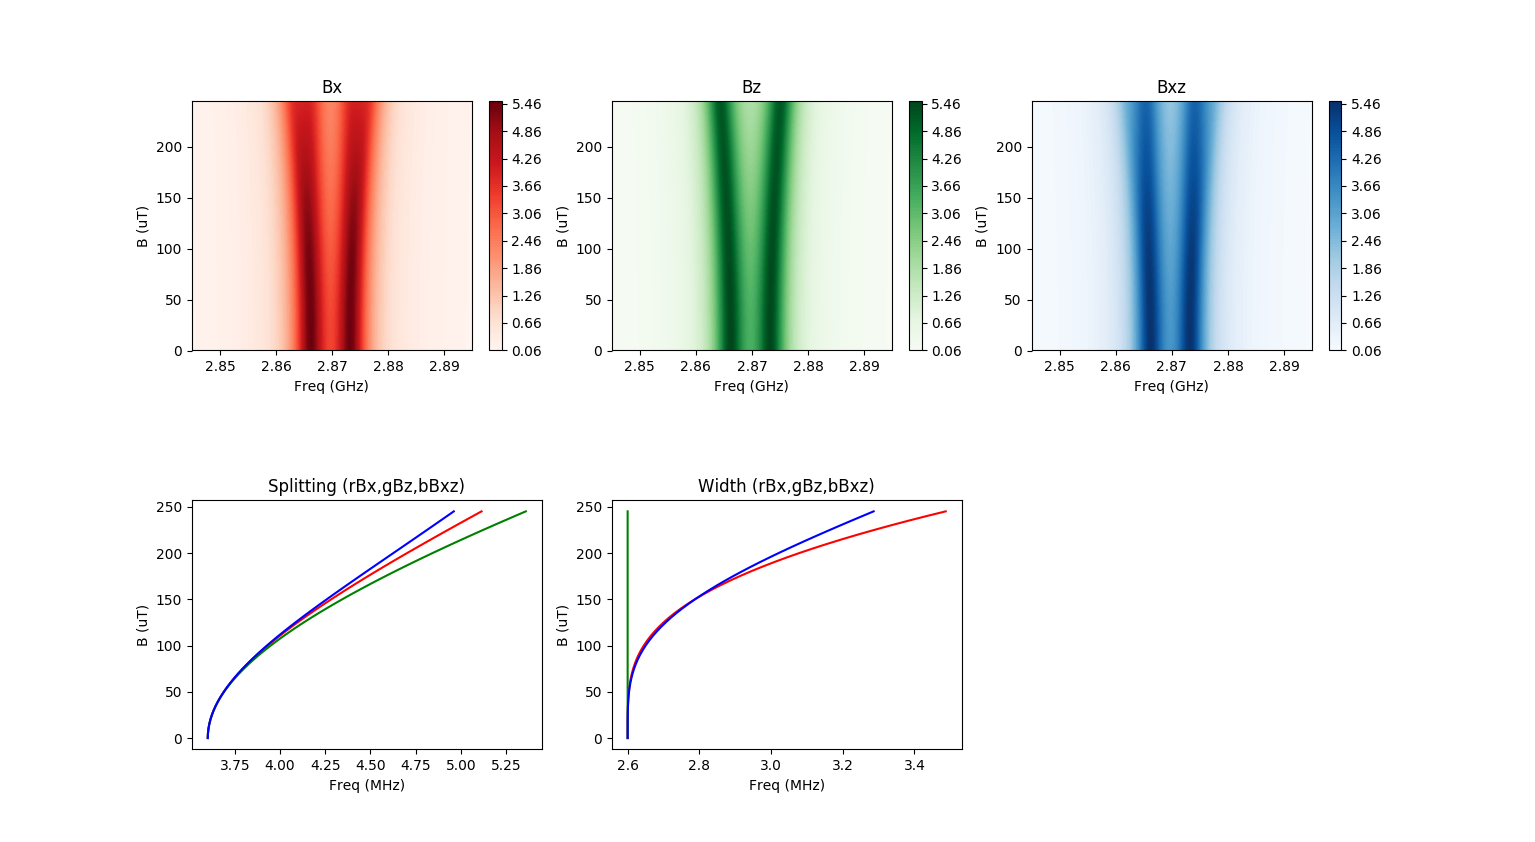
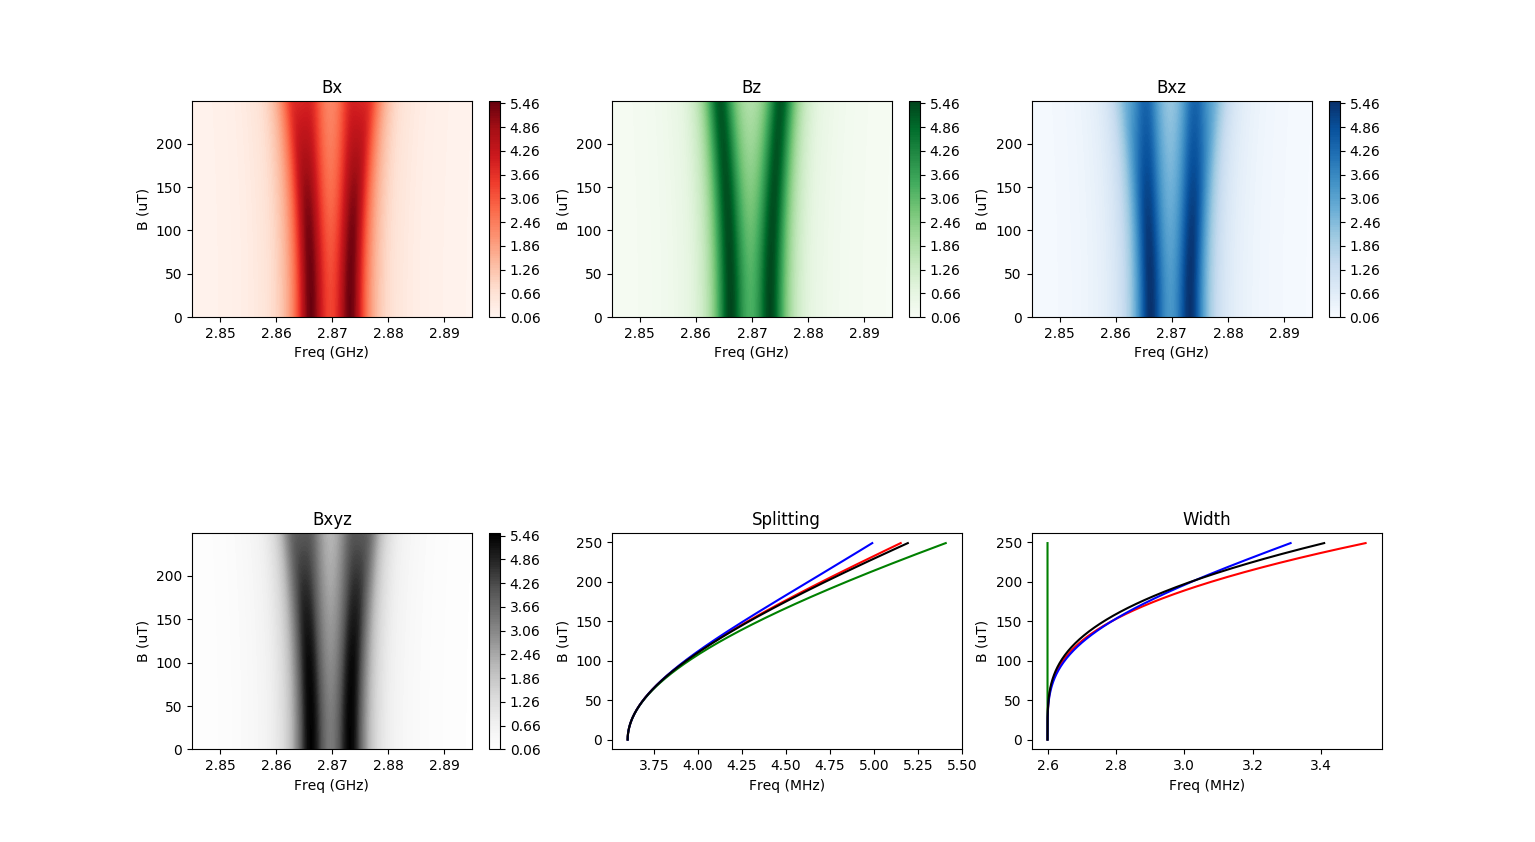
Added Bxyz to graph

diff --git a/NVspectrafromB.py b/NVspectrafromB.py
@@ -39,10 +39,12 @@ spectrax[:,0] = np.copy(BArray)
 spectraz = np.copy(spectrax)
 spectraxy = np.copy(spectrax)
 spectraxz = np.copy(spectrax)
+spectraxyz = np.copy(spectrax)
 ewx = np.zeros((len(spectrax),8))
 ewz = np.zeros((len(spectrax),8))
 ##ewxy = np.zeros((len(spectrax),8))
 ewxz = np.zeros((len(spectrax),8))
+ewxyz = np.zeros((len(spectrax),8))
 
 for i in range(0,len(spectrax),1):
     spectrax[i,1:] = NVspectrafromB(freq,zf,amp,BArray[i],0,0)
@@ -51,10 +53,15 @@ for i in range(0,len(spectrax),1):
 ##                                     BArray[i]/np.sqrt(2),BArray[i]/np.sqrt(2),0)
     spectraxz[i,1:] = NVspectrafromB(freq,zf,amp,\
                                      BArray[i]/np.sqrt(2),0,BArray[i]/np.sqrt(2))
+    spectraxyz[i,1:] = NVspectrafromB(freq,zf,amp,\
+                                     BArray[i]/np.sqrt(3),\
+                                      BArray[i]/np.sqrt(3),\
+                                      BArray[i]/np.sqrt(3))
     ewx[i,:] = np.copy(de(freq,spectrax[i,1:],zf))
     ewz[i,:] = np.copy(de(freq,spectraz[i,1:],zf))
 ##    ewxy[i,:] = np.copy(de(freq,spectraxy[i,1:],zf))
     ewxz[i,:] = np.copy(de(freq,spectraxz[i,1:],zf))
+    ewxyz[i,:] = np.copy(de(freq,spectraxyz[i,1:],zf))
 ##print ewxy[:,1]
 ##print len(spectrax)
 ##print len(spectraz)
@@ -103,22 +110,37 @@ ax.set_xlabel('Freq (GHz)')
 ax.set_ylabel('B (uT)')
 
 ax = fig.add_subplot(2,3,4)
-ax.plot(ewx[:,1]/1e6,spectrax[:,0]*1e6,'r-',\
-        ewz[:,1]/1e6,spectraz[:,0]*1e6,'g-',\
-        ewxz[:,1]/1e6,spectraxz[:,0]*1e6,'b-')
-ax.set_title('Splitting (rBx,gBz,bBxz)')
-ax.set_xlabel('Freq (MHz)')
+X = freq/1e9
+##Y = spectraxy[:,0]*1e6
+Y = spectraxyz[:,0]*1e6
+X,Y = np.meshgrid(X,Y)
+##Z = spectraxy[:,1:]
+Z = spectraxyz[:,1:]
+plt.contourf(X,Y,Z,100,cmap='Greys')
+plt.colorbar()
+ax.set_title('Bxyz')
+ax.set_xlabel('Freq (GHz)')
 ax.set_ylabel('B (uT)')
 
 ax = fig.add_subplot(2,3,5)
-ax.plot(ewx[:,2]/1e6,spectrax[:,0]*1e6,'r-',\
-        ewz[:,2]/1e6,spectraz[:,0]*1e6,'g-',\
-        ewxz[:,2]/1e6,spectraxz[:,0]*1e6,'b-')
-ax.set_title('Width (rBx,gBz,bBxz)')
+ax.plot(ewx[:,1]/1e6,spectrax[:,0]*1e6,'r-',\
+        ewz[:,1]/1e6,spectraz[:,0]*1e6,'g-',\
+        ewxz[:,1]/1e6,spectraxz[:,0]*1e6,'b-',\
+        ewxyz[:,1]/1e6,spectraxyz[:,0]*1e6,'k-')
+ax.set_title('Splitting')
 ax.set_xlabel('Freq (MHz)')
 ax.set_ylabel('B (uT)')
 
-plt.subplots_adjust(wspace=.2,hspace=.6)
+ax = fig.add_subplot(2,3,6)
+ax.plot(ewx[:,2]/1e6,spectrax[:,0]*1e6,'r-',\
+        ewz[:,2]/1e6,spectraz[:,0]*1e6,'g-',\
+        ewxz[:,2]/1e6,spectraxz[:,0]*1e6,'b-',\
+        ewxyz[:,2]/1e6,spectraxyz[:,0]*1e6,'k-')
+ax.set_title('Width')
+ax.set_xlabel('Freq (MHz)')
+ax.set_ylabel('B (uT)')
+
+plt.subplots_adjust(wspace=.2,hspace=1)
 plt.draw()
 plt.show()
 
